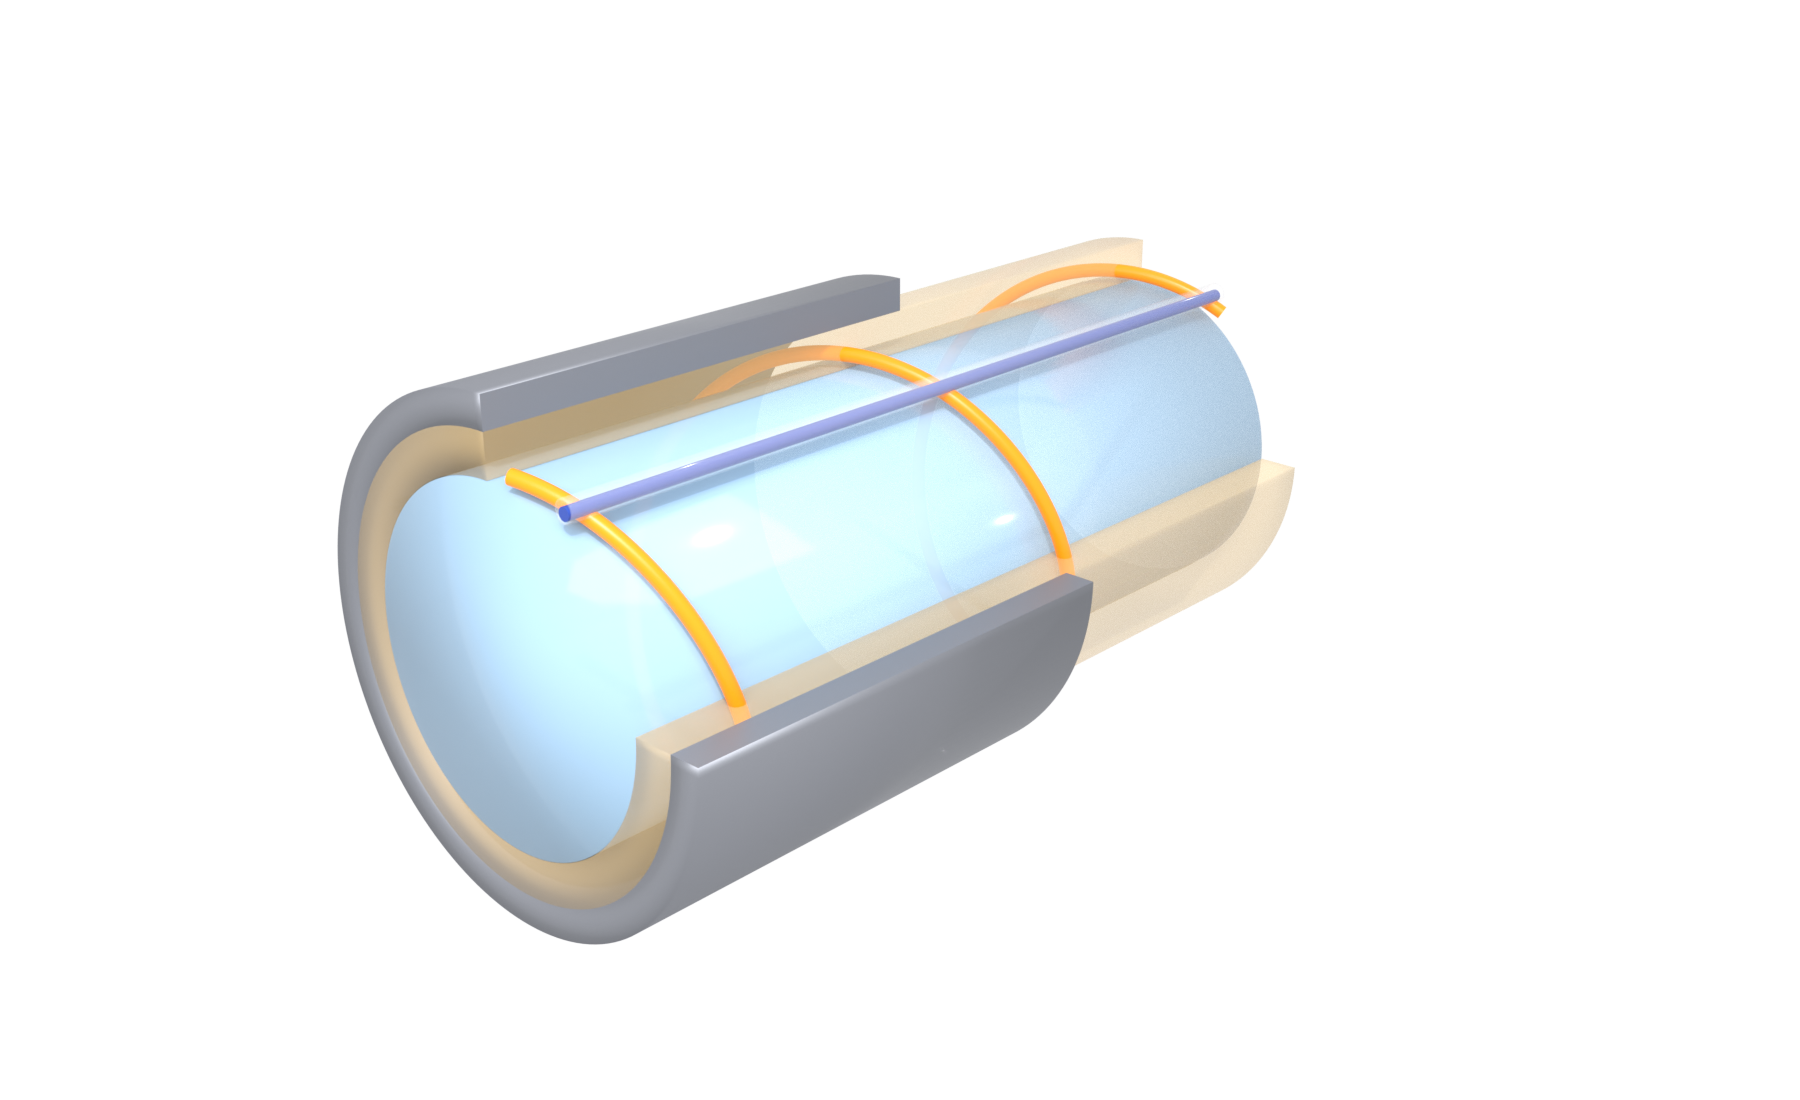
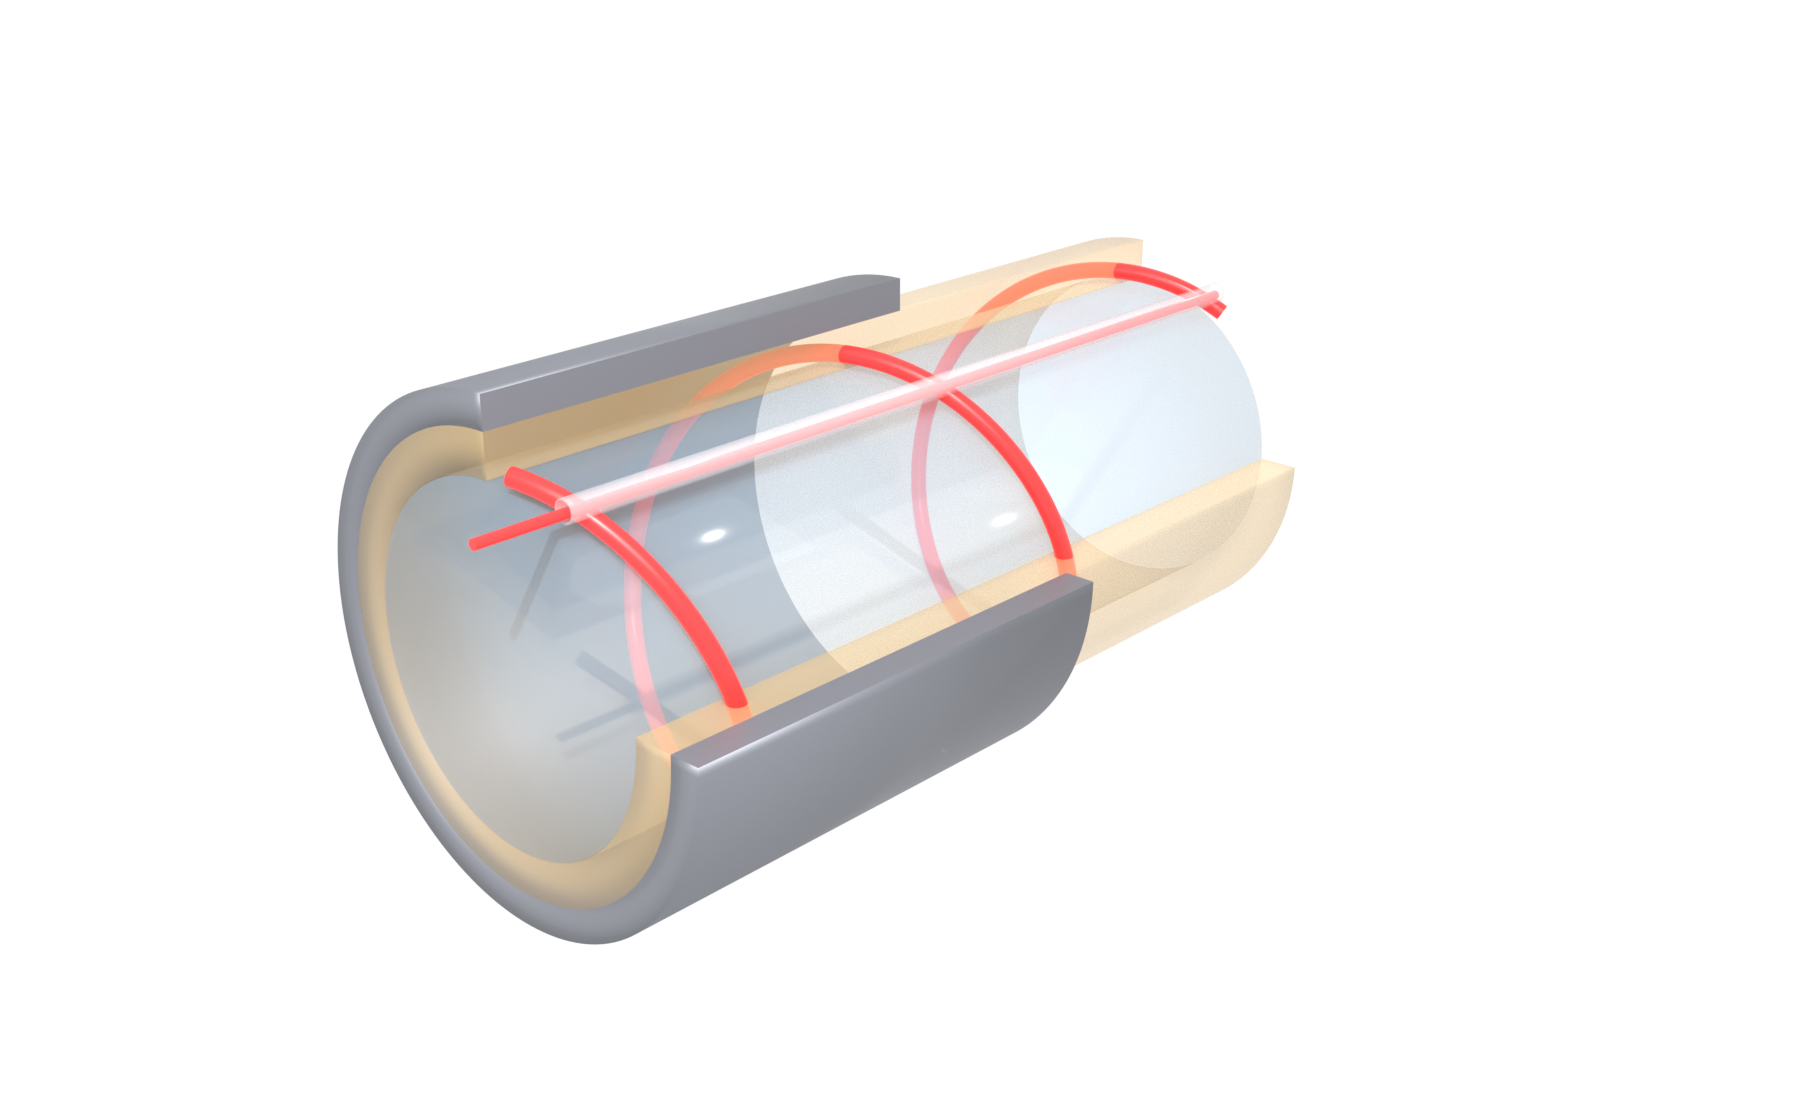
Cutaway: one red fibre (helix and return), return fibre sticking out of the tubicino, transparent water

Changed region(s): [[0.1867, 0.2164, 0.7156, 0.8036]]

diff --git a/blender/sezione_tubo.py b/blender/sezione_tubo.py
@@ -46,20 +46,20 @@ def costruisci():
     pulisci_scena()
     m_ospite = materiale("tubo ospite", (0.23, 0.24, 0.27), rough=0.55, metal=0.6)
     m_guaina = materiale("guaina", (0.86, 0.62, 0.30), alpha=0.32, rough=0.45)
-    m_acqua = materiale("acqua", (0.45, 0.70, 0.95), alpha=0.6, rough=0.1)
-    m_elica = materiale("fibra a elica", (0.95, 0.25, 0.0), rough=0.35, emissione=0.3)
-    m_tub = materiale("tubicino", (0.97, 0.97, 1.0), alpha=0.1, rough=0.1)
-    m_rif = materiale("fibra di riferimento", (0.02, 0.06, 0.35), rough=0.4)
+    m_acqua = materiale("acqua", (0.45, 0.70, 0.95), alpha=0.18, rough=0.1)
+    m_elica = materiale("fibra", (0.85, 0.03, 0.03), rough=0.3, emissione=0.4)       # una sola fibra: stesso colore
+    m_tub = materiale("tubicino", (0.96, 0.96, 0.98), alpha=0.2, rough=0.15)
+    m_rif = m_elica                                                                  # è la stessa fibra (ritorno)
 
     ospite = tubo("tubo ospite", R_OSPITE, T_OSPITE, 0.0, L_OSPITE, m_ospite)
     guaina = tubo("guaina", R_GUAINA, T_GUAINA, 0.0, L_GUAINA, m_guaina)
     taglia_quarto(ospite, -0.1, L_OSPITE + 0.1)          # spaccato: tolto il quarto verso chi guarda
     taglia_quarto(guaina, -0.1, L_GUAINA + 0.1)
     cilindro_pieno("acqua", R_ACQUA - 0.003, 0.0, L_ACQUA, m_acqua)
-    curva("fibra a elica", elica(0.0, L_GUAINA), 0.03, m_elica)
+    curva("fibra a elica", elica(0.0, L_GUAINA), 0.036, m_elica)
     c = (R_RIF * math.cos(TH_RIF), R_RIF * math.sin(TH_RIF))
     tubo("tubicino", R_TUB, T_TUB, 0.0, L_GUAINA, m_tub, centro=c, vertici=48)
-    curva("fibra di riferimento", [(0.0, c[0], c[1] - 0.008), (L_GUAINA, c[0], c[1] - 0.008)], 0.026, m_rif)
+    curva("fibra di riferimento", [(-0.35, c[0], c[1] - 0.008), (L_GUAINA, c[0], c[1] - 0.006)], 0.02, m_rif)  # esce davanti dal tubicino
 
     # luci e camera
     bpy.ops.object.light_add(type="SUN", location=(0, 0, 6),

diff --git a/blender/sezione_tubo_figura.py b/blender/sezione_tubo_figura.py
@@ -21,10 +21,11 @@ TESTO, GRIGIO = "#1b1f24", "#5c636a"
 VOCI = [
     ("ospite", (-120, 150), "Tubo ospite", "Il tubo esistente da risanare (per esempio in ghisa)."),
     ("guaina", (60, 170), "Guaina di risanamento", "Polimerizzata in opera dentro il tubo ospite; contiene la fibra."),
-    ("elica", (-150, 150), "Fibra a elica (andata)", "Annegata nella guaina: si allunga quando la pressione dilata il tubo. "
+    ("elica", (-150, 150), "Fibra a elica (andata)", "La fibra, in rosso, è annegata nella guaina: si allunga quando la pressione dilata il tubo. "
                                                     "Sente pressione e temperatura."),
-    ("tubicino", (-60, -170), "Tubicino con la fibra di riferimento (ritorno)",
-     "Annegato nella guaina; la fibra dentro è libera e non viene tirata. Sente solo la temperatura."),
+    ("tubicino", (-60, -170), "Tubicino con la fibra di ritorno",
+     "La stessa fibra torna indietro dentro un tubicino annegato nella guaina: è libera e non viene tirata. "
+     "Sente solo la temperatura (riferimento)."),
     ("acqua", (170, 120), "Acqua in pressione", "Spinge sulle pareti e dilata il tubo."),
 ]
 

diff --git a/docs/05-meccanica-del-tubo.md b/docs/05-meccanica-del-tubo.md
@@ -44,10 +44,11 @@ un quarto è tolto per vedere dentro:
 1. **tubo ospite**: il tubo esistente; nel modello è lo strato esterno, con il suo modulo elastico (per la ghisa circa
    170 GPa);
 2. **guaina di risanamento**: polimerizzata in opera e aderente al tubo ospite; è lo strato in cui sta la fibra;
-3. **fibra a elica** (andata): annegata nella guaina, a metà spessore nel modello; si allunga con la deformazione
+3. **fibra a elica** (andata, in rosso): annegata nella guaina, a metà spessore nel modello; si allunga con la deformazione
    circonferenziale della guaina e misura quindi la pressione (più la temperatura);
-4. **tubicino con la fibra di riferimento** (ritorno): annegato nella stessa guaina; la fibra al suo interno è libera,
-   non si allunga e misura solo la temperatura (cap. 3 e 7);
+4. **tubicino con la fibra di ritorno**: la stessa fibra (in rosso nella figura, che esce dal tubicino sul davanti)
+   torna indietro dentro un tubicino annegato nella guaina; lì è libera, non si allunga e misura solo la temperatura
+   (cap. 3 e 7);
 5. **acqua in pressione**: la pressione $p$ agisce sulla faccia interna della guaina.
 
 Il modello meccanico segue la stessa sequenza di strati: la pressione si trasmette dalla guaina al tubo ospite, e
